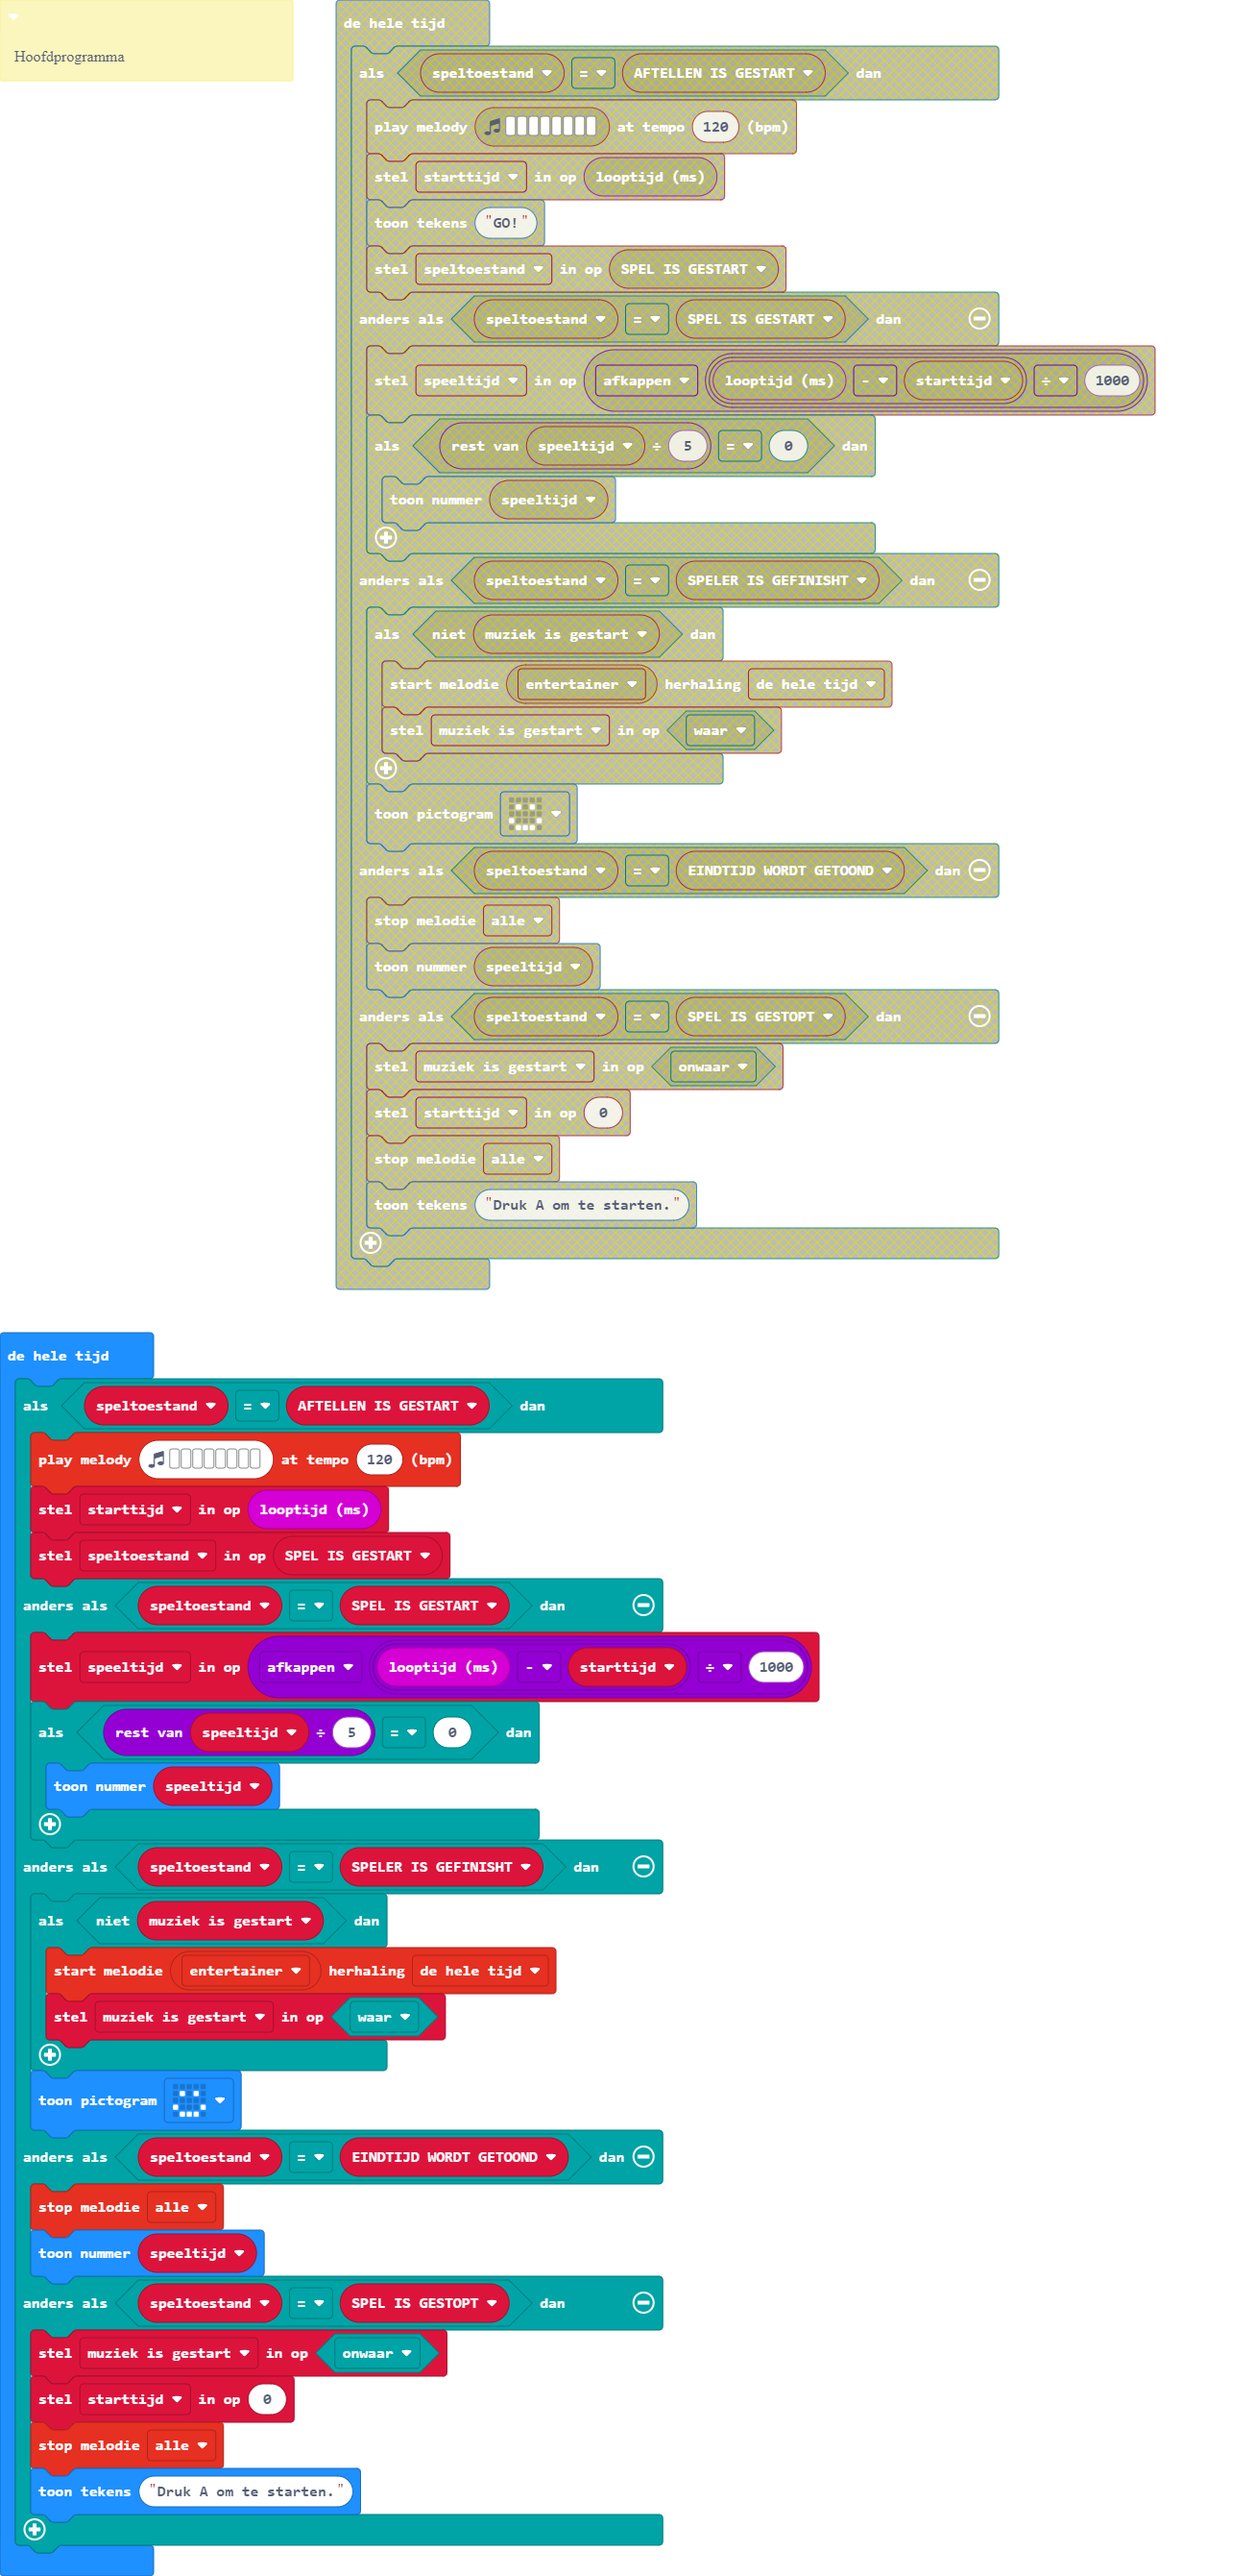
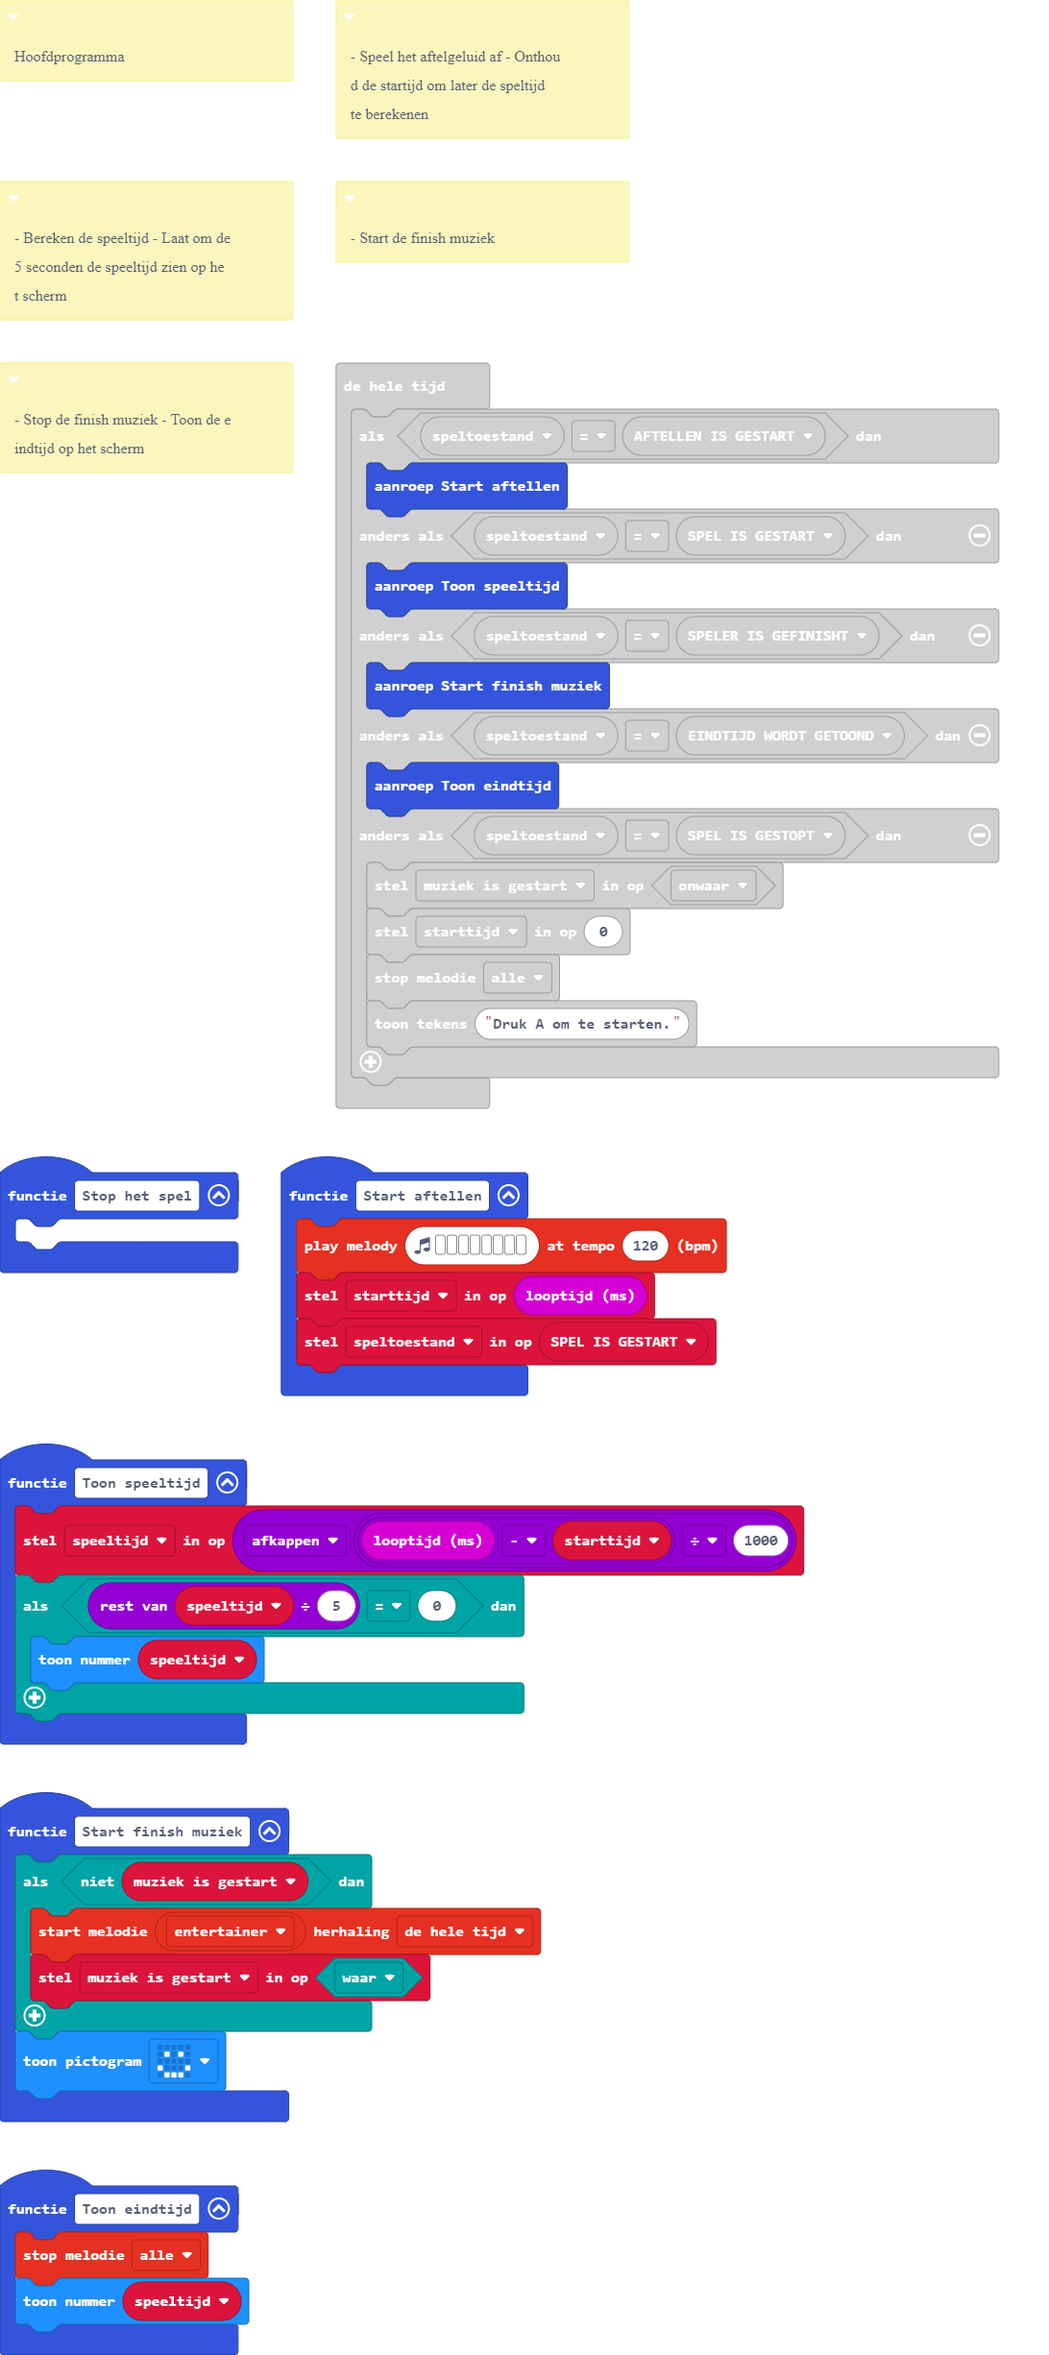
Update main.blocks, main.ts

diff --git a/main.ts b/main.ts
@@ -1,3 +1,6 @@
+function Stop_het_spel () {
+	
+}
 input.onButtonPressed(Button.A, function () {
     if (speltoestand == SPEL_IS_GESTOPT) {
         led.stopAnimation()
@@ -8,11 +11,40 @@ input.onButtonPressed(Button.A, function () {
         speltoestand = EINDTIJD_WORDT_GETOOND
     }
 })
+/**
+ * - Speel het aftelgeluid af
+ * 
+ * - Onthoud de startijd om later de speltijd te berekenen
+ */
+function Start_aftellen () {
+    music.playMelody("C - C - C5 - - - ", 120)
+    starttijd = input.runningTime()
+    speltoestand = SPEL_IS_GESTART
+}
+/**
+ * - Stop de finish muziek
+ * 
+ * - Toon de eindtijd op het scherm
+ */
+function Toon_eindtijd () {
+    music.stopMelody(MelodyStopOptions.All)
+    basic.showNumber(speeltijd)
+}
 input.onPinPressed(TouchPin.P2, function () {
     if (speltoestand == SPEL_IS_GESTART) {
         speltoestand = SPELER_IS_GEFINISHT
     }
 })
+/**
+ * - Start de finish muziek
+ */
+function Start_finish_muziek () {
+    if (!(muziek_is_gestart)) {
+        music.startMelody(music.builtInMelody(Melodies.Entertainer), MelodyOptions.Forever)
+        muziek_is_gestart = true
+    }
+    basic.showIcon(IconNames.Happy)
+}
 input.onButtonPressed(Button.B, function () {
     if (speltoestand != SPEL_IS_GESTOPT) {
         speltoestand = SPEL_IS_GESTOPT
@@ -24,6 +56,17 @@ input.onPinPressed(TouchPin.P1, function () {
         music.playTone(139, music.beat(BeatFraction.Double))
     }
 })
+/**
+ * - Bereken de speeltijd
+ * 
+ * - Laat om de 5 seconden de speeltijd zien op het scherm
+ */
+function Toon_speeltijd () {
+    speeltijd = Math.trunc((input.runningTime() - starttijd) / 1000)
+    if (speeltijd % 5 == 0) {
+        basic.showNumber(speeltijd)
+    }
+}
 let muziek_is_gestart = false
 let speeltijd = 0
 let starttijd = 0
@@ -44,23 +87,13 @@ speltoestand = SPEL_IS_GESTOPT
  */
 basic.forever(function () {
     if (speltoestand == AFTELLEN_IS_GESTART) {
-        music.playMelody("C - C - C5 - - - ", 120)
-        starttijd = input.runningTime()
-        speltoestand = SPEL_IS_GESTART
+        Start_aftellen()
     } else if (speltoestand == SPEL_IS_GESTART) {
-        speeltijd = Math.trunc((input.runningTime() - starttijd) / 1000)
-        if (speeltijd % 5 == 0) {
-            basic.showNumber(speeltijd)
-        }
+        Toon_speeltijd()
     } else if (speltoestand == SPELER_IS_GEFINISHT) {
-        if (!(muziek_is_gestart)) {
-            music.startMelody(music.builtInMelody(Melodies.Entertainer), MelodyOptions.Forever)
-            muziek_is_gestart = true
-        }
-        basic.showIcon(IconNames.Happy)
+        Start_finish_muziek()
     } else if (speltoestand == EINDTIJD_WORDT_GETOOND) {
-        music.stopMelody(MelodyStopOptions.All)
-        basic.showNumber(speeltijd)
+        Toon_eindtijd()
     } else if (speltoestand == SPEL_IS_GESTOPT) {
         muziek_is_gestart = false
         starttijd = 0
